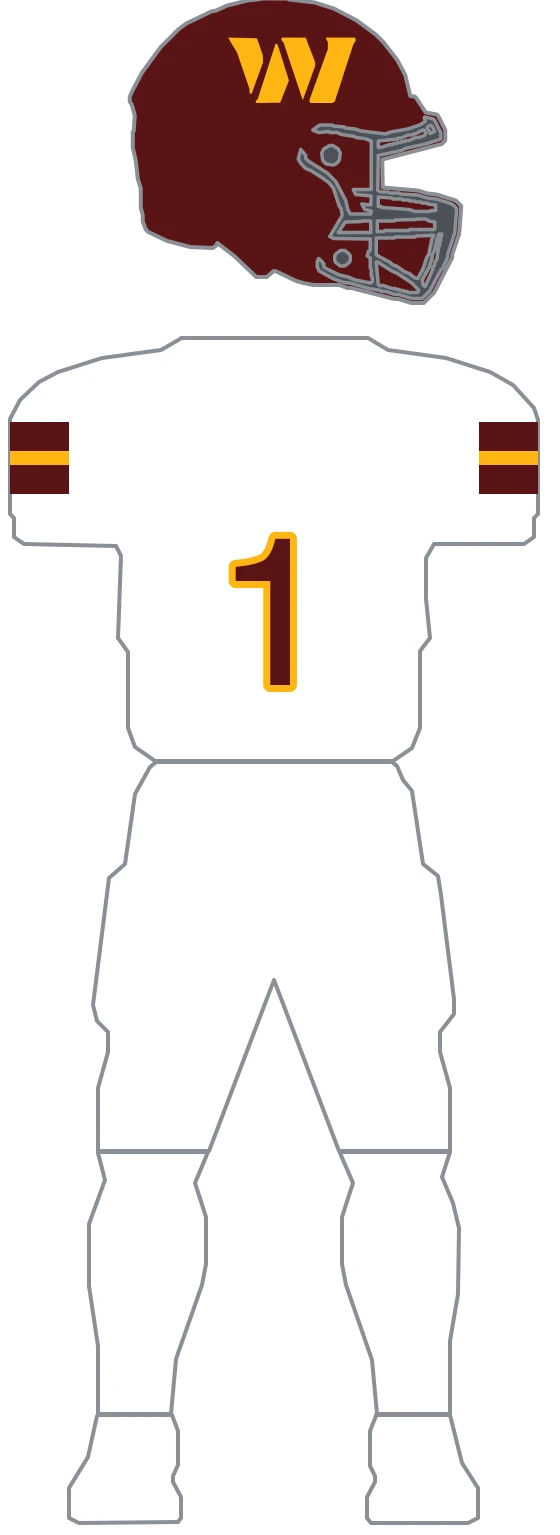
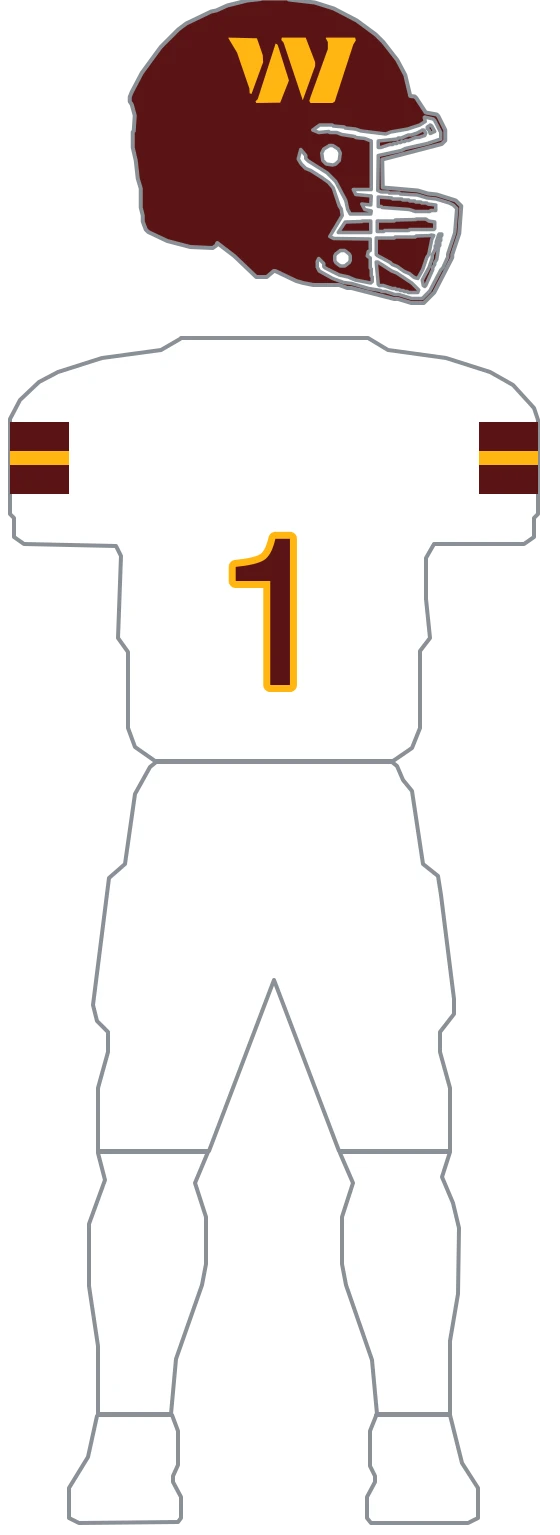
feat(uniforms): migrate Commanders to composable parts and set its white facemask (#692)
One construction: a broad band at the sleeve cap split by a thinner line
through its middle. No collar trim, no helmet stripe, no pant stripe. The
three kits combine one helmet (the burgundy shell), two jerseys (burgundy
shared by home + 70s-burgundy, white for away), and two pants (burgundy for
home/70s, white for away). Parts express that: 1 helmet, 2 jerseys, 2 pants,
matching the measured target.

NOTE SURFACED: home and 70s-burgundy render IDENTICALLY — both store burgundy
over gold, differing only in accent — and the reference draws one burgundy
sleeve treatment. The spec's measured table lists this as a known
pixel-identical pair; the two kits share H1/J1/P1, and differentiating them is
a data decision left to the accuracy pass, not a definition fix.

The migration's parity gate proved all 9 commanders rasters (3 kits x 2
variants) byte-identical against the flat definition, then the flat definition
and its builder helpers were deleted and the team removed from MIGRATED, per
the one-time-proof lifecycle (depth#660).

Facemask follows the parts migration per phase order: the burgundy shell wears
a white cage (named sources). Only the three -full rasters move, each change
confined to its helmet region.

Changed region(s): [[0.5768, 0.0612, 0.8196, 0.1837], [0.5464, 0.0919, 0.6071, 0.1225], [0.7286, 0.1837, 0.7589, 0.2143]]

diff --git a/lib/uniforms/teams/commanders.ts b/lib/uniforms/teams/commanders.ts
@@ -1,122 +1,24 @@
-import type { ColorRef, TeamUniformDefinition, UniformLayer, UniformSurface } from './types';
-
-// Washington's three archived kits, redrawn from the Gridiron Uniform Database 2025 composite in
-// nfl-uniform-refs/commanders (home is that sheet's row-1 figure 7; the white figures in row 1 and
-// row 2 carry the away construction — row-1 figures 1-2 are boxed "worn in preseason only" and were
-// not used). Right paths mirror the left across the centerline x=294.
+// Washington's construction geometry — the "W" decal path, the sleeve-band bounds, and the white
+// construction literal only. The composable parts definition that consumes them lives in
+// ./commanders.parts.ts; the former flat COMMANDERS_UNIFORMS was deleted in the migration that
+// proved parts render byte-identically (see parts-parity.test.ts for the one-time gate).
 //
 // One construction: a broad band at the sleeve cap split by a thinner line through its middle. No
 // collar trim, no helmet stripe, no pant stripe.
-//
-// `home` AND `70s-burgundy` RENDER IDENTICALLY, and as with Los Angeles' two powder-blue rows that
-// is correct rather than a bug. Both store burgundy over gold and differ only in `accent` (gold on
-// home, white on the throwback), and the reference draws one burgundy sleeve treatment. The
-// construction is shared; the difference is only that `home` reaches white through a literal where
-// the throwback reaches it through `accent`. If they should ever be two distinct looks, the sheet
-// carries a black alternate (row-3 figures 3-4) with no row of its own — a data decision.
-//
-// APPROXIMATE, and flagged: the away kit's two band colors are read from the composite rather than
-// sampled. Its geometry is the measured one.
-//
-// Out of scope on every kit: the chest wordmark, the league shield, the starred collar tab, the
-// Christmas patch, and the shoulder numerals — including the gold Nike mark just above the band,
-// which a sleeve column crosses first and which is not part of the striping.
 
 // White is a literal on the home kit only. Its palette is burgundy over gold with accent ===
 // secondary (ESPN supplies only two colors), so nothing resolves to the line through the band or to
 // the numeral keyline.
 export const COMMANDERS_WHITE = '#FFFFFF';
 
-// The "W", traced from the home figure's shell (bbox x1268-1382, y299-409 in the reference) mapped
-// onto the raw helmet space at ~6.25x. One layer and four subpaths: the mark is four flat gold
-// strokes separated by shell-colored gaps, with no keyline and no interior detail, so it needs
-// neither a second color nor a grown outline — the simplest decal of the 32.
+// The "W", traced from the home figure's shell. One layer and four subpaths: the mark is four flat
+// gold strokes separated by shell-colored gaps, with no keyline and no interior detail — the
+// simplest decal of the 32.
 export const COMMANDERS_DECAL_PATH =
   'M531.6,143.2 L589.7,143.2 L591.2,148.7 L586.1,157.0 L549.0,271.2 L544.7,274.0 L500.3,274.0 L498.1,269.8 L501.0,260.8 L535.2,166.0 L535.2,152.2 L530.8,143.9 Z M336.7,143.2 L393.4,144.6 L405.1,178.5 L405.8,192.3 L382.5,256.0 L378.9,254.6 L378.2,244.9 L353.5,173.0 L336.0,143.9 Z M443.6,143.2 L490.9,143.2 L509.8,192.3 L509.8,199.9 L485.0,268.5 L446.5,152.9 L442.1,148.0 L442.9,143.9 Z M431.2,155.0 L434.9,157.7 L457.4,229.0 L440.0,273.3 L392.0,274.0 L390.5,270.5 L394.9,266.4 L430.5,155.7 Z';
 
-// The sleeve band, measured on the home figure (jersey top y=403, sleeve hem y=469, figure center
-// x=1320.5, so scaleY = 191/66 and scaleX = 264/84.5). A column at reference x=1250 crosses gold
-// y432-441, white y442-446 and gold y447-456, with body color above and below. The set spans
-// reference x1240-1254; extended outward to x=30 for a flush clip.
+// The sleeve band, measured on the home figure. A column crosses gold y432-441, white y442-446 and
+// gold y447-456. Extended outward to x=30 for a flush clip.
 export const COMMANDERS_BOUNDS = [467, 496, 510, 539];
 export const COMMANDERS_SLEEVE_X_LEFT = [30, 89];
 export const COMMANDERS_SLEEVE_X_RIGHT = [499, 558];
-
-const GENERIC_STRIPPED = [
-  'generic-helmet-stripe',
-  'generic-sleeve-yoke-left',
-  'generic-sleeve-yoke-right',
-  'generic-sleeve-stripe-left',
-  'generic-sleeve-stripe-right',
-  'generic-collar',
-  'generic-pants-stripe-left',
-  'generic-pants-stripe-right',
-];
-
-function sleeveBand(band: ColorRef, line: ColorRef): UniformLayer[] {
-  const out: UniformLayer[] = [];
-  const sides: [UniformSurface, number[]][] = [
-    ['sleeve-left', COMMANDERS_SLEEVE_X_LEFT],
-    ['sleeve-right', COMMANDERS_SLEEVE_X_RIGHT],
-  ];
-
-  for (let i = 0; i < COMMANDERS_BOUNDS.length - 1; i += 1) {
-    const top = COMMANDERS_BOUNDS[i];
-    const bottom = COMMANDERS_BOUNDS[i + 1];
-    for (const [surface, [x0, x1]] of sides) {
-      const side = surface === 'sleeve-left' ? 'left' : 'right';
-      out.push({
-        id: `commanders-band-${i}-${side}`,
-        surface,
-        d: `M${x0},${top} H${x1} V${bottom} H${x0} Z`,
-        clip: true,
-        kind: 'fill',
-        fill: i === 1 ? line : band,
-      });
-    }
-  }
-
-  return out;
-}
-
-// The mark is gold on every kit; only which token carries the gold moves with the palette.
-function decal(fill: ColorRef): UniformLayer[] {
-  return [
-    {
-      id: 'commanders-decal',
-      surface: 'helmet',
-      d: COMMANDERS_DECAL_PATH,
-      clip: true,
-      kind: 'fill',
-      fill,
-    },
-  ];
-}
-
-export const COMMANDERS_UNIFORMS: TeamUniformDefinition = {
-  teamId: 'commanders',
-  defaults: { removeLayerIds: GENERIC_STRIPPED },
-  kits: {
-    // Burgundy body and shell. Gold is both secondary and accent here, so it carries the band and
-    // the numeral face; the line through the band and the numeral keyline are white, which this
-    // palette cannot supply, so both take the literal.
-    home: {
-      layers: [...sleeveBand('secondary', COMMANDERS_WHITE), ...decal('secondary')],
-      number: { fill: 'secondary', outline: COMMANDERS_WHITE, outlineWidth: 14 },
-    },
-    // White body under the burgundy shell. The away palette moves white into primary, burgundy into
-    // secondary and gold into accent, so the band inverts to burgundy around a gold line. See the
-    // approximation noted above.
-    away: {
-      helmetColor: 'secondary',
-      layers: [...sleeveBand('secondary', 'accent'), ...decal('accent')],
-      number: { fill: 'secondary', outline: 'accent', outlineWidth: 14 },
-    },
-    // The same uniform as home, authored against a palette that carries white in `accent` — so
-    // nothing here is a literal. See the note above on why these two kits render the same.
-    '70s-burgundy': {
-      layers: [...sleeveBand('secondary', 'accent'), ...decal('secondary')],
-      number: { fill: 'secondary', outline: 'accent', outlineWidth: 14 },
-    },
-  },
-};

diff --git a/lib/uniforms/teams/commanders.parts.ts b/lib/uniforms/teams/commanders.parts.ts
@@ -1,0 +1,116 @@
+// Washington authored as composable parts. Geometry is imported unchanged from commanders.ts — this
+// file only restates WHICH parts each kit combines, and names every color from the team palette
+// instead of the kit row's shifting primary/secondary/accent.
+//
+// One construction: a broad band at the sleeve cap split by a thinner line through its middle. No
+// collar trim, no helmet stripe, no pant stripe. The three kits combine one helmet (the burgundy
+// shell), two jerseys (burgundy shared by home + 70s-burgundy, white for away), and two pants
+// (burgundy for home/70s, white for away).
+//
+// NOTE: home and 70s-burgundy render IDENTICALLY by design — both store burgundy over gold,
+// differing only in accent — and the reference draws one burgundy sleeve treatment. The spec flags
+// this as a known pixel-identical pair to surface, not to silently collapse.
+
+import {
+  COMMANDERS_BOUNDS,
+  COMMANDERS_DECAL_PATH,
+  COMMANDERS_SLEEVE_X_LEFT,
+  COMMANDERS_SLEEVE_X_RIGHT,
+} from './commanders';
+import { compileParts, type PartLayer, type TeamPartsDefinition, type UniformPart } from './parts';
+import type { UniformSurface } from './types';
+
+// The broad cap band split by a thinner line through its middle.
+function sleeveBand(band: string, line: string): PartLayer[] {
+  const out: PartLayer[] = [];
+  const sides: [UniformSurface, number[]][] = [
+    ['sleeve-left', COMMANDERS_SLEEVE_X_LEFT],
+    ['sleeve-right', COMMANDERS_SLEEVE_X_RIGHT],
+  ];
+  for (let i = 0; i < COMMANDERS_BOUNDS.length - 1; i += 1) {
+    const top = COMMANDERS_BOUNDS[i];
+    const bottom = COMMANDERS_BOUNDS[i + 1];
+    for (const [surface, [x0, x1]] of sides) {
+      const side = surface === 'sleeve-left' ? 'left' : 'right';
+      out.push({
+        id: `commanders-band-${i}-${side}`,
+        surface,
+        d: `M${x0},${top} H${x1} V${bottom} H${x0} Z`,
+        clip: true,
+        kind: 'fill',
+        fill: i === 1 ? line : band,
+      });
+    }
+  }
+  return out;
+}
+
+// The gold "W" — one layer, four subpaths, no keyline. Gold is the mark's color on every kit; the
+// jersey supplies which palette color that is.
+function decal(which: string): PartLayer[] {
+  return [
+    {
+      id: 'commanders-decal',
+      surface: 'helmet',
+      d: COMMANDERS_DECAL_PATH,
+      clip: true,
+      kind: 'fill',
+      fill: which,
+    },
+  ];
+}
+
+// The burgundy shell with the gold "W" — one object, shared by all three kits.
+//
+// White cage. The burgundy Commanders shell wears a white facemask (named sources; the white cage
+// reads cleanly against the burgundy shell).
+const HELMET_BURGUNDY: UniformPart = {
+  base: 'burgundy',
+  facemask: 'white',
+  layers: decal('gold'),
+};
+
+// Burgundy jersey (home + 70s-burgundy): burgundy body, gold band around a white line, gold
+// numerals keylined white.
+const JERSEY_BURGUNDY: UniformPart = {
+  base: 'burgundy',
+  layers: sleeveBand('gold', 'white'),
+  number: { fill: 'gold', outline: 'white', outlineWidth: 14 },
+};
+
+// Away jersey: white body, burgundy band around a gold line, burgundy numerals keylined gold.
+const JERSEY_WHITE: UniformPart = {
+  base: 'white',
+  layers: sleeveBand('burgundy', 'gold'),
+  number: { fill: 'burgundy', outline: 'gold', outlineWidth: 14 },
+};
+
+// Burgundy pants (home + 70s-burgundy).
+const PANTS_BURGUNDY: UniformPart = { base: 'burgundy', layers: [] };
+
+// White pants (away).
+const PANTS_WHITE: UniformPart = { base: 'white', layers: [] };
+
+export const COMMANDERS_PARTS: TeamPartsDefinition = {
+  teamId: 'commanders',
+  // Jersey hexes from the curated rows (teamcolorcodes). Burgundy and gold are the physical body/
+  // trim colors; white is the band-line/number-literal that only the home row lacks as a token.
+  palette: {
+    burgundy: '#5A1414',
+    gold: '#FFB612',
+    white: '#FFFFFF',
+  },
+  helmets: { burgundy: HELMET_BURGUNDY },
+  jerseys: {
+    burgundy: JERSEY_BURGUNDY,
+    white: JERSEY_WHITE,
+  },
+  pants: { burgundy: PANTS_BURGUNDY, white: PANTS_WHITE },
+  kits: {
+    home: { helmet: 'burgundy', jersey: 'burgundy', pants: 'burgundy' },
+    away: { helmet: 'burgundy', jersey: 'white', pants: 'white' },
+    '70s-burgundy': { helmet: 'burgundy', jersey: 'burgundy', pants: 'burgundy' },
+  },
+};
+
+export const COMMANDERS_UNIFORMS_FROM_PARTS = compileParts(COMMANDERS_PARTS);

diff --git a/lib/uniforms/teams/index.ts b/lib/uniforms/teams/index.ts
@@ -9,7 +9,7 @@ import { CARDINALS_UNIFORMS_FROM_PARTS } from './cardinals.parts';
 import { CHARGERS_UNIFORMS_FROM_PARTS } from './chargers.parts';
 import { CHIEFS_UNIFORMS_FROM_PARTS } from './chiefs.parts';
 import { COLTS_UNIFORMS_FROM_PARTS } from './colts.parts';
-import { COMMANDERS_UNIFORMS } from './commanders';
+import { COMMANDERS_UNIFORMS_FROM_PARTS } from './commanders.parts';
 import { COWBOYS_UNIFORMS_FROM_PARTS } from './cowboys.parts';
 import { DOLPHINS_UNIFORMS } from './dolphins';
 import { EAGLES_UNIFORMS } from './eagles';
@@ -48,7 +48,7 @@ const DEFINITIONS: Readonly<Partial<Record<string, TeamUniformDefinition>>> = {
   chargers: CHARGERS_UNIFORMS_FROM_PARTS,
   chiefs: CHIEFS_UNIFORMS_FROM_PARTS,
   colts: COLTS_UNIFORMS_FROM_PARTS,
-  commanders: COMMANDERS_UNIFORMS,
+  commanders: COMMANDERS_UNIFORMS_FROM_PARTS,
   cowboys: COWBOYS_UNIFORMS_FROM_PARTS,
   dolphins: DOLPHINS_UNIFORMS,
   '49ers': NINERS_UNIFORMS_FROM_PARTS,
